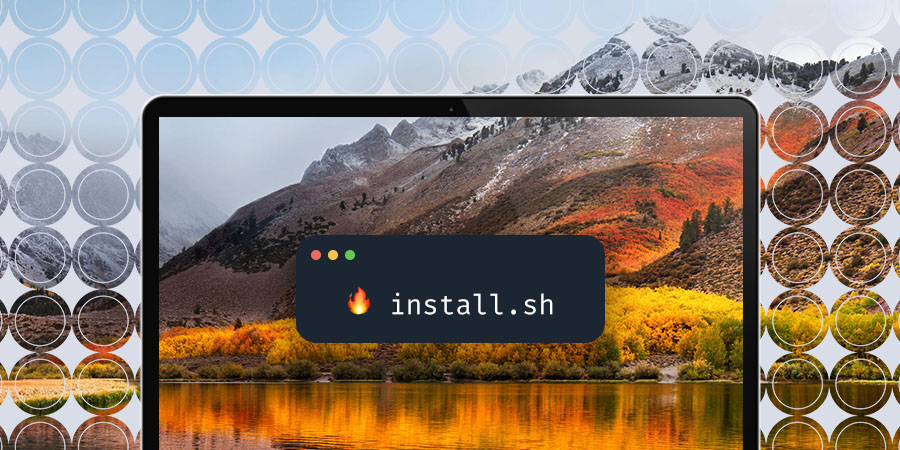
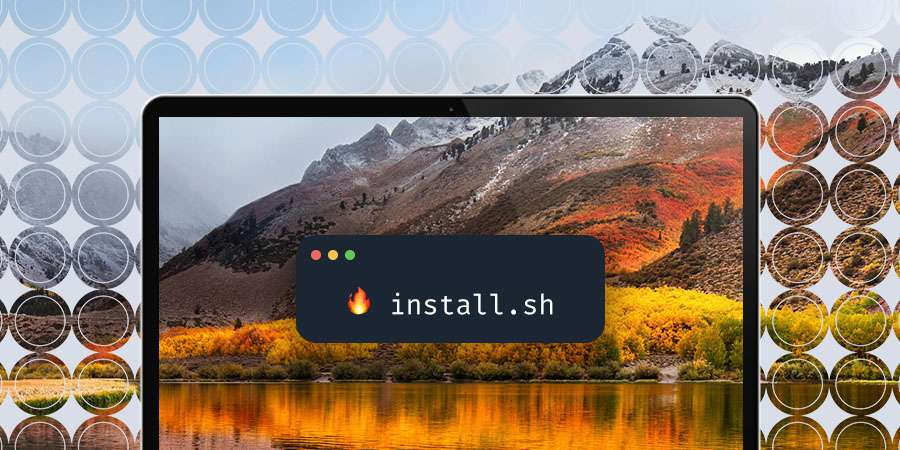
Optimize images and gifs

diff --git a/articles/20200620-visualize-your-progress-improve-your-results/index.md b/articles/20200620-visualize-your-progress-improve-your-results/index.md
@@ -1,6 +1,6 @@
 ---
 title: "Visualize your progress improve your results"
-image: /covers/hill-charts.gif
+image: /covers/hill-chart-cover.png
 permalink: hill-chart
 subtitle: "Using hill charts"
 date: 2020-04-18 22:20
